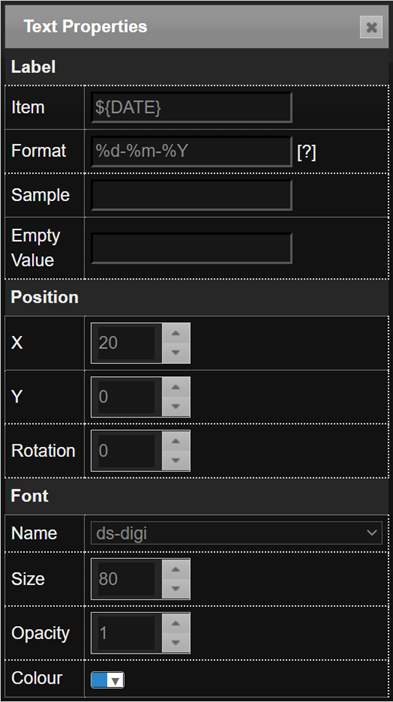
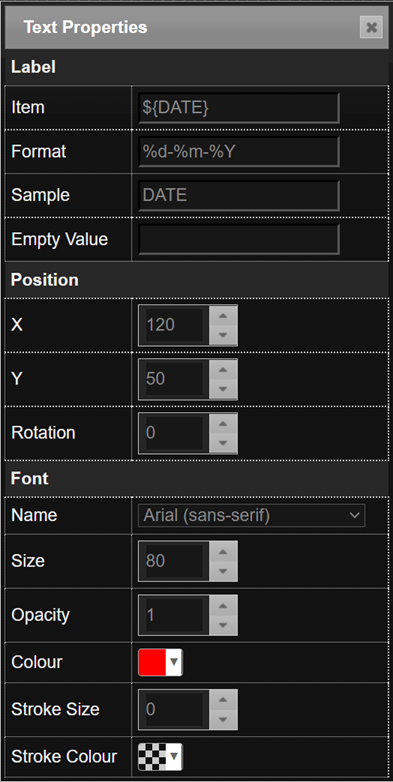
Update overlay documentation

Changed region(s): [[0.0, 0.0, 1.0, 1.0]]

diff --git a/html/documentation/overlays/overlays.html b/html/documentation/overlays/overlays.html
@@ -751,6 +751,8 @@
                                         <li><strong>Font Size</strong> - The size of the font</li>
                                         <li><strong>Opacity</strong> - The opacity to use for the font</li>
                                         <li><strong>Colour</strong> - The colour to use for the field</li>
+                                        <li><strong>Stroke Size</strong> - The size in pixels for applying a stroke to the field. Setting this to zero will disable any stroke</li>                                        
+                                        <li><strong>Stroke Colour</strong> - The stroke colour to use for the field</li>
                                     </ul>
                                     <blockquote>When using the 'Extra Data' files in json format all of the
                                         attribute can be overridden in the json file allowing for external
